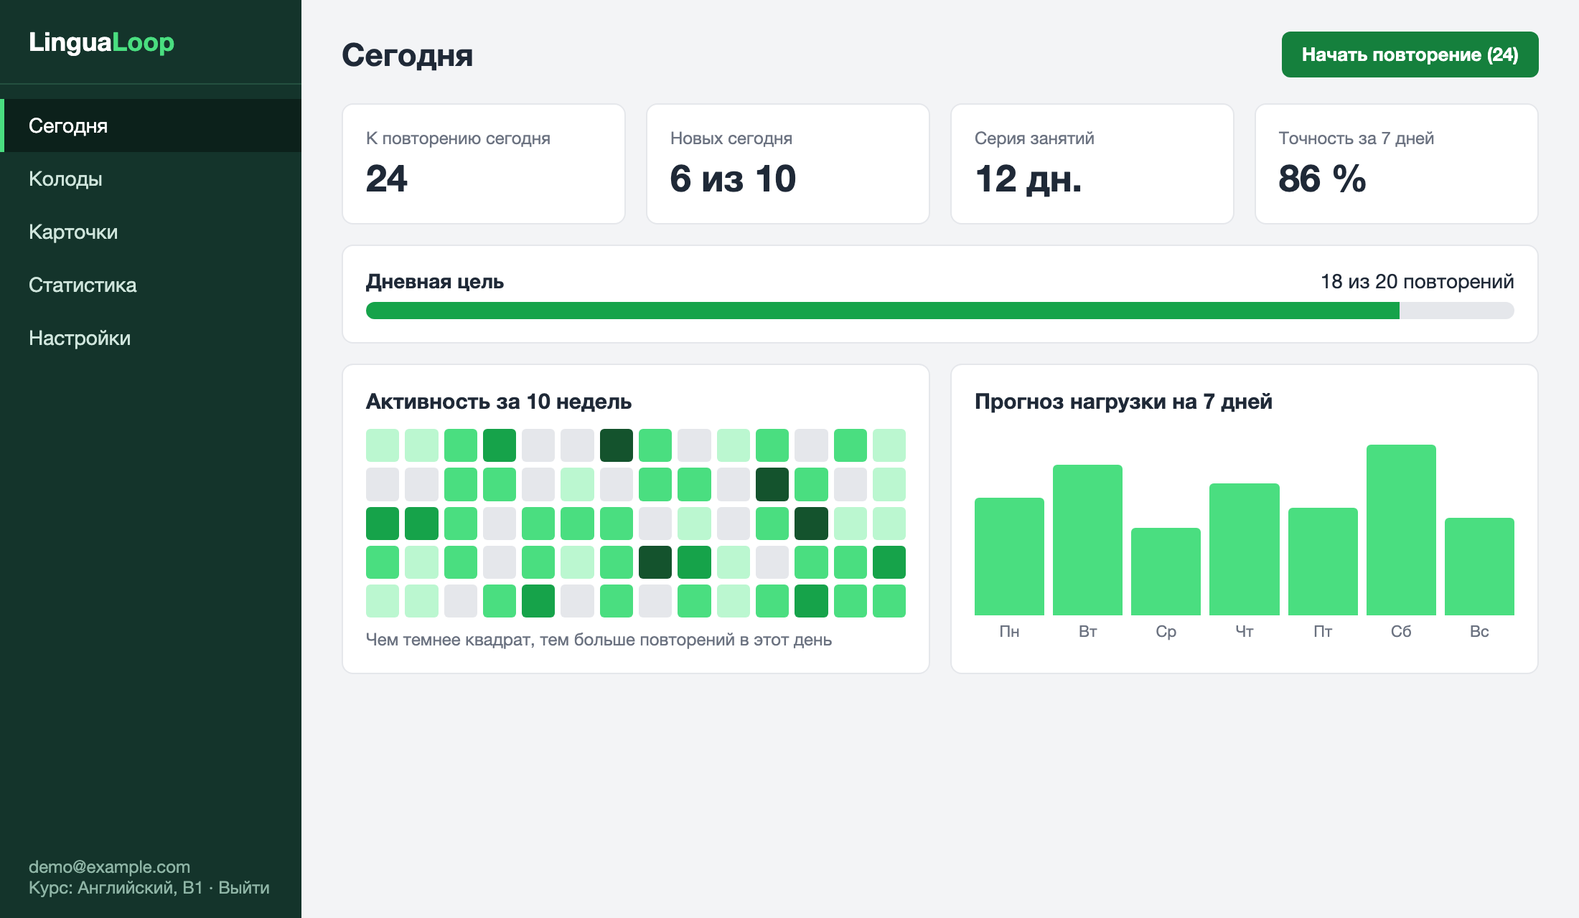
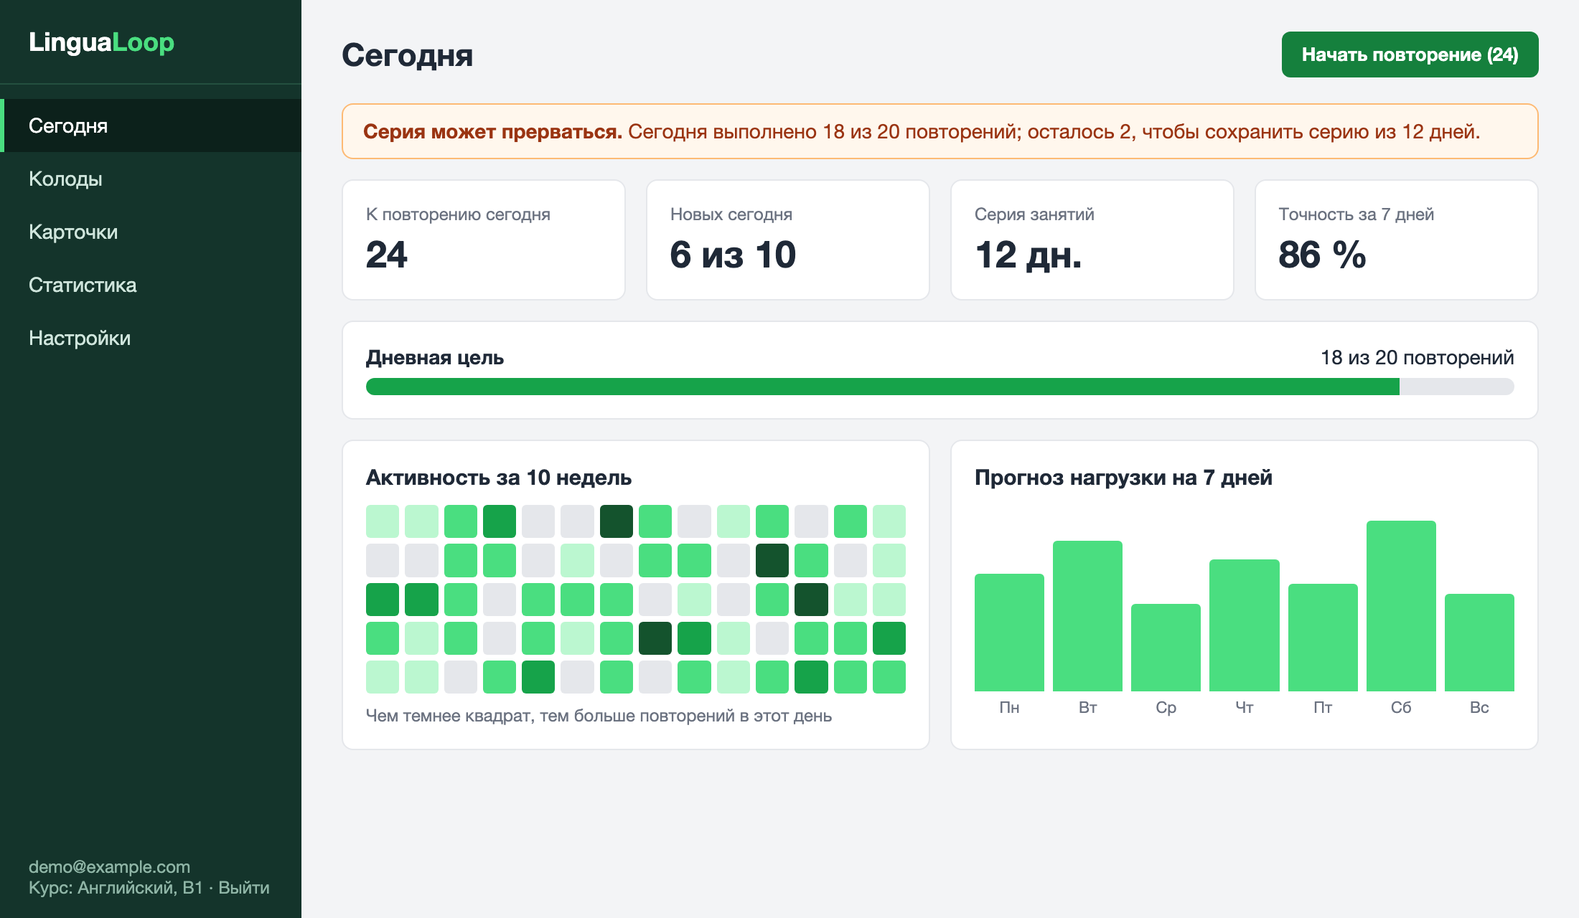
Update language learning tracker SRS to v0.2

Changed region(s): [[0.2164, 0.125, 0.9582, 0.7812], [0.6182, 0.4688, 0.9582, 0.7812]]

diff --git a/srs/mockups/review.html b/srs/mockups/review.html
@@ -2,7 +2,7 @@
 <aside><div class="logo">Lingua<span>Loop</span></div><a class="on">Сегодня</a><a class="">Колоды</a><a class="">Карточки</a><a class="">Статистика</a><a class="">Настройки</a><div class="user">demo@example.com<br>Курс: Английский, B1 · Выйти</div></aside><main><div class="top"><h1>Повторение</h1><span class="muted">Карточка 7 из 24 · колода «Базовая лексика»</span></div>
 <div class="bar" style="margin-bottom:18px"><i style="width:29%"></i></div>
 <div class="card" style="max-width:640px;margin:0 auto;text-align:center;padding:30px">
-<div style="font-size:34px;font-weight:700">serendipity</div><div class="muted" style="margin-top:4px">/ˌserənˈdɪpəti/</div>
+<div style="font-size:34px;font-weight:700">serendipity <span class="btn sec" style="padding:4px 10px">Озвучить</span></div><div class="muted" style="margin-top:4px">/ˌserənˈdɪpəti/</div>
 <hr style="margin:18px 0;border:0;border-top:1px solid #e5e7eb">
 <div style="font-size:24px">счастливая случайность</div>
 <p class="muted" style="margin-top:10px;font-style:italic">Finding that café was pure serendipity.</p>
@@ -11,4 +11,4 @@
 <div style="flex:1"><span class="btn" style="background:#d97706;display:block">Трудно</span><div class="muted" style="margin-top:4px;font-size:12px">14 дн.</div></div>
 <div style="flex:1"><span class="btn" style="display:block">Хорошо</span><div class="muted" style="margin-top:4px;font-size:12px">15 дн.</div></div>
 <div style="flex:1"><span class="btn" style="background:#0284c7;display:block">Легко</span><div class="muted" style="margin-top:4px;font-size:12px">16 дн.</div></div></div></div>
-</main></body></html>
+<p class="muted" style="text-align:center;margin-top:12px">Карточка с оценкой «Забыл» вернётся позже в этом же сеансе</p></main></body></html>

diff --git a/srs/mockups/dashboard.html b/srs/mockups/dashboard.html
@@ -1,5 +1,5 @@
 <!doctype html><html lang="ru"><head><meta charset="utf-8"><title>Сегодня</title><link rel="stylesheet" href="style.css"></head><body>
-<aside><div class="logo">Lingua<span>Loop</span></div><a class="on">Сегодня</a><a class="">Колоды</a><a class="">Карточки</a><a class="">Статистика</a><a class="">Настройки</a><div class="user">demo@example.com<br>Курс: Английский, B1 · Выйти</div></aside><main><div class="top"><h1>Сегодня</h1><span class="btn">Начать повторение (24)</span></div>
+<aside><div class="logo">Lingua<span>Loop</span></div><a class="on">Сегодня</a><a class="">Колоды</a><a class="">Карточки</a><a class="">Статистика</a><a class="">Настройки</a><div class="user">demo@example.com<br>Курс: Английский, B1 · Выйти</div></aside><main><div class="top"><h1>Сегодня</h1><span class="btn">Начать повторение (24)</span></div><div class="warn"><b>Серия может прерваться.</b> Сегодня выполнено 18 из 20 повторений; осталось 2, чтобы сохранить серию из 12 дней.</div>
 <div class="grid g4" style="margin-bottom:14px">
 <div class="card kpi"><div class="l">К повторению сегодня</div><div class="v">24</div></div>
 <div class="card kpi"><div class="l">Новых сегодня</div><div class="v">6 из 10</div></div>

diff --git a/srs/srs.md b/srs/srs.md
@@ -2,7 +2,7 @@
 
 Для **LinguaLoop** – трекера изучения языков с интервальным повторением
 
-Версия 0.1
+Версия 0.2
 
 Подготовил Дашкевич Р. Д., группа 450503
 
@@ -29,6 +29,7 @@
 | Name | Date | Reason For Changes | Version |
 |------|------|--------------------|---------|
 | Дашкевич Р. Д. | 26.10.2026 | Первая версия: интервью с заказчиком, функциональные (REQ-FUNC-001…018) и нефункциональные требования, мокапы, диаграммы SysML v2 | 0.1 |
+| Дашкевич Р. Д. | <<дата>> | По итогам рецензии (pull request <<№>>): добавлены REQ-FUNC-019 и REQ-FUNC-020, дополнено REQ-FUNC-008; два замечания отклонены (см. 2.6 и приложение А) | 0.2 |
 
 ---
 
@@ -115,7 +116,7 @@ LinguaLoop – новый самостоятельный продукт. Он з
 - экран «Сегодня», объединяющий основные показатели;
 - напоминания о занятии по e-mail.
 
-Иерархия функциональных требований показана на рисунке 2.
+Иерархия функциональных требований показана на рисунке 2 (светло-жёлтым выделены требования, добавленные в версии 0.2).
 
 ![Рисунок 2 – Иерархия функциональных требований (SysML v2)](img/sysml-functional.png)
 
@@ -152,8 +153,10 @@ LinguaLoop – новый самостоятельный продукт. Он з
 |----------|------------|------------|
 | 1 | Основной цикл: карточки и повторение | REQ-FUNC-001, 002, 003, 004, 005, 007, 008, 009 |
 | 2 | Мотивация и статистика | REQ-FUNC-006, 010, 011, 012, 013, 015, 018 |
-| 3 | Дополнительные возможности | REQ-FUNC-014, 016, 017 |
+| 3 | Дополнительные возможности | REQ-FUNC-014, 016, 017, 019, 020 |
 | 1–3 | Нефункциональные | REQ-INT, PERF, SEC, REL, AVAIL, OBS, COMP, INST, BUILD, PORT, MAINT, COST, DEAD, POC, CM |
+
+**Результат рецензирования (версия 0.2, pull request <<№>>).** Принято: повторный показ забытой карточки в том же сеансе (дополнение REQ-FUNC-008), предупреждение о риске потери серии (REQ-FUNC-019), озвучивание слова (REQ-FUNC-020). Отклонено: рейтинг друзей и соревнования (требуют учётных записей нескольких пользователей, модерации и защиты приватности, что противоречит границам версии 1.0); мобильное приложение с работой без сети (требует синхронизации данных и выходит за срок курса, адаптивный веб-интерфейс по REQ-INT-001 закрывает основную потребность). Подробности – в приложении А.
 
 ---
 
@@ -293,9 +296,9 @@ LinguaLoop – новый самостоятельный продукт. Он з
 
 - **ID:** REQ-FUNC-008
 - **Title:** Сеанс повторения
-- **Statement:** Система должна формировать на текущий день очередь из карточек, срок повторения которых наступил (просроченные – первыми), и новых карточек в пределах дневного лимита; показывать лицевую сторону, по команде «Показать ответ» – перевод, транскрипцию и пример, затем предлагать четыре оценки с подсказкой интервала для каждой; после оценки записывать повторение в журнал и планировать карточку по REQ-FUNC-007. Прерванный сеанс должен сохранять уже выставленные оценки.
-- **Rationale:** Это основной сценарий работы с продуктом.
-- **Acceptance Criteria:** Карточка со сроком в будущем и приостановленная карточка в очередь не попадают; новых карточек в очереди не больше дневного лимита; после закрытия вкладки в середине сеанса оценённые карточки не предлагаются повторно.
+- **Statement:** Система должна формировать на текущий день очередь из карточек, срок повторения которых наступил (просроченные – первыми), и новых карточек в пределах дневного лимита; показывать лицевую сторону, по команде «Показать ответ» – перевод, транскрипцию и пример, затем предлагать четыре оценки с подсказкой интервала для каждой; после оценки записывать повторение в журнал и планировать карточку по REQ-FUNC-007. Прерванный сеанс должен сохранять уже выставленные оценки. Карточка с оценкой «Забыл» должна повторно показываться в этом же сеансе после не менее пяти других карточек (если их меньше – в конце очереди); повторный показ не должен менять расписание и засчитываться в дневную цель, а оценка записывается в журнал с пометкой «повтор в сеансе».
+- **Rationale:** Это основной сценарий работы с продуктом. Повторный показ забытой карточки в тот же день добавлен по замечанию рецензента (версия 0.2); тот же приём рекомендует автор SM-2.
+- **Acceptance Criteria:** Карточка со сроком в будущем и приостановленная карточка в очередь не попадают; новых карточек в очереди не больше дневного лимита; после закрытия вкладки в середине сеанса оценённые карточки не предлагаются повторно. После оценки «Забыл» карточка снова появляется в этом же сеансе; на расписание и дневную цель повторный показ не влияет.
 - **Verification Method:** Test
 - **More Information:** Приоритет Must. Рисунок 4.
 
@@ -306,6 +309,14 @@ LinguaLoop – новый самостоятельный продукт. Он з
 - **Acceptance Criteria:** После тренировки сроки карточек и серия остаются прежними; записи журнала помечены как тренировка.
 - **Verification Method:** Demonstration
 - **More Information:** Приоритет Could.
+
+- **ID:** REQ-FUNC-020
+- **Title:** Озвучивание слова
+- **Statement:** Система может по нажатию кнопки «Озвучить» произносить слово лицевой стороны карточки средствами синтеза речи браузера; если синтез недоступен, кнопка не отображается.
+- **Rationale:** Добавлено по замечанию рецензента (версия 0.2): учащийся запоминает произношение вместе с написанием; собственные аудиозаписи не хранятся (REQ-COMP-002).
+- **Acceptance Criteria:** В поддерживающем браузере по нажатию слово произносится; в браузере без синтеза речи кнопки нет, сеанс работает без изменений.
+- **Verification Method:** Demonstration
+- **More Information:** Приоритет Could. Рисунок 4.
 
 #### 3.2.4 Цели, серии, статистика
 
@@ -356,6 +367,14 @@ LinguaLoop – новый самостоятельный продукт. Он з
 - **Acceptance Criteria:** Показатели совпадают с данными статистики за тот же период; кнопка начала повторения открывает сеанс по REQ-FUNC-008.
 - **Verification Method:** Test
 - **More Information:** Приоритет Should. Рисунок 3.
+
+- **ID:** REQ-FUNC-019
+- **Title:** Предупреждение о риске потери серии
+- **Statement:** Система должна показывать на экране «Сегодня» предупреждение, если текущая серия не менее 3 дней, дневная цель не выполнена, а время по часовому поясу пользователя позже 18:00; в предупреждении указывается число оставшихся повторений.
+- **Rationale:** Добавлено по замечанию рецензента (версия 0.2): пользователь узнаёт о потере серии только на следующий день.
+- **Acceptance Criteria:** При серии 12 дней, цели 20 и 18 выполненных повторениях в 19:00 выводится сообщение «осталось 2»; при выполненной цели или серии короче 3 дней сообщение не выводится.
+- **Verification Method:** Test
+- **More Information:** Приоритет Should. REQ-FUNC-010. Рисунок 3.
 
 #### 3.2.5 Уведомления
 
@@ -610,6 +629,8 @@ LinguaLoop – новый самостоятельный продукт. Он з
 | REQ-FUNC-016 | Demonstration | tests/UC05-review.md | Запланировано | – |
 | REQ-FUNC-017 | Test | tests/UC06-goal.md | Запланировано | – |
 | REQ-FUNC-018 | Test | tests/UC07-stats.md | Запланировано | – |
+| REQ-FUNC-019 | Test | tests/UC06-goal.md | Запланировано | – |
+| REQ-FUNC-020 | Demonstration | tests/UC05-review.md | Запланировано | – |
 | REQ-INT-001 | Inspection | tests/interfaces.md | Запланировано | – |
 | REQ-INT-002 | Test | tests/interfaces.md | Запланировано | – |
 | REQ-INT-003 | Test | tests/interfaces.md | Запланировано | – |
@@ -642,7 +663,15 @@ LinguaLoop – новый самостоятельный продукт. Он з
 
 ### Приложение А. Замечания заказчика и решения
 
-Рецензирование не проводилось. Таблица заполняется после получения замечаний заказчика в pull request.
+Замечания оставлены в pull request <<№>> (<<ссылка>>) участником <<логин>> (роль заказчика).
+
+| Замечание | Решение | Обоснование |
+|-----------|---------|-------------|
+| <<После оценки «Забыл» карточка уходит на завтра; хочется, чтобы она возвращалась позже в этом же сеансе>> | Принято (дополнение REQ-FUNC-008) | Немедленное повторение после ошибки улучшает запоминание; то же рекомендует автор SM-2. Расписание и дневная цель повторным показом не изменяются |
+| <<Серия обрывается, а узнаёшь об этом на следующий день; нужно предупреждение>> | Принято (REQ-FUNC-019, приоритет Should) | Помогает сохранить серию (БЦ-1); предупреждение выводится на экране «Сегодня» без внешних сервисов |
+| <<Нужна кнопка «Озвучить» для произношения>> | Принято (REQ-FUNC-020, приоритет Could) | Используется синтез речи браузера, собственные аудиозаписи не хранятся (REQ-COMP-002); при отсутствии синтеза кнопка скрывается |
+| <<Добавить рейтинг друзей и соревнования>> | Отклонено | Требуются учётные записи нескольких пользователей, модерация и защита приватности, что противоречит границам версии 1.0 |
+| <<Нужно мобильное приложение с работой без сети>> | Отклонено | Работа без сети требует синхронизации данных и выходит за срок курса; адаптивный веб-интерфейс (REQ-INT-001) закрывает основную потребность |
 
 ### Приложение Б. Контрольные примеры алгоритма SM-2
 
